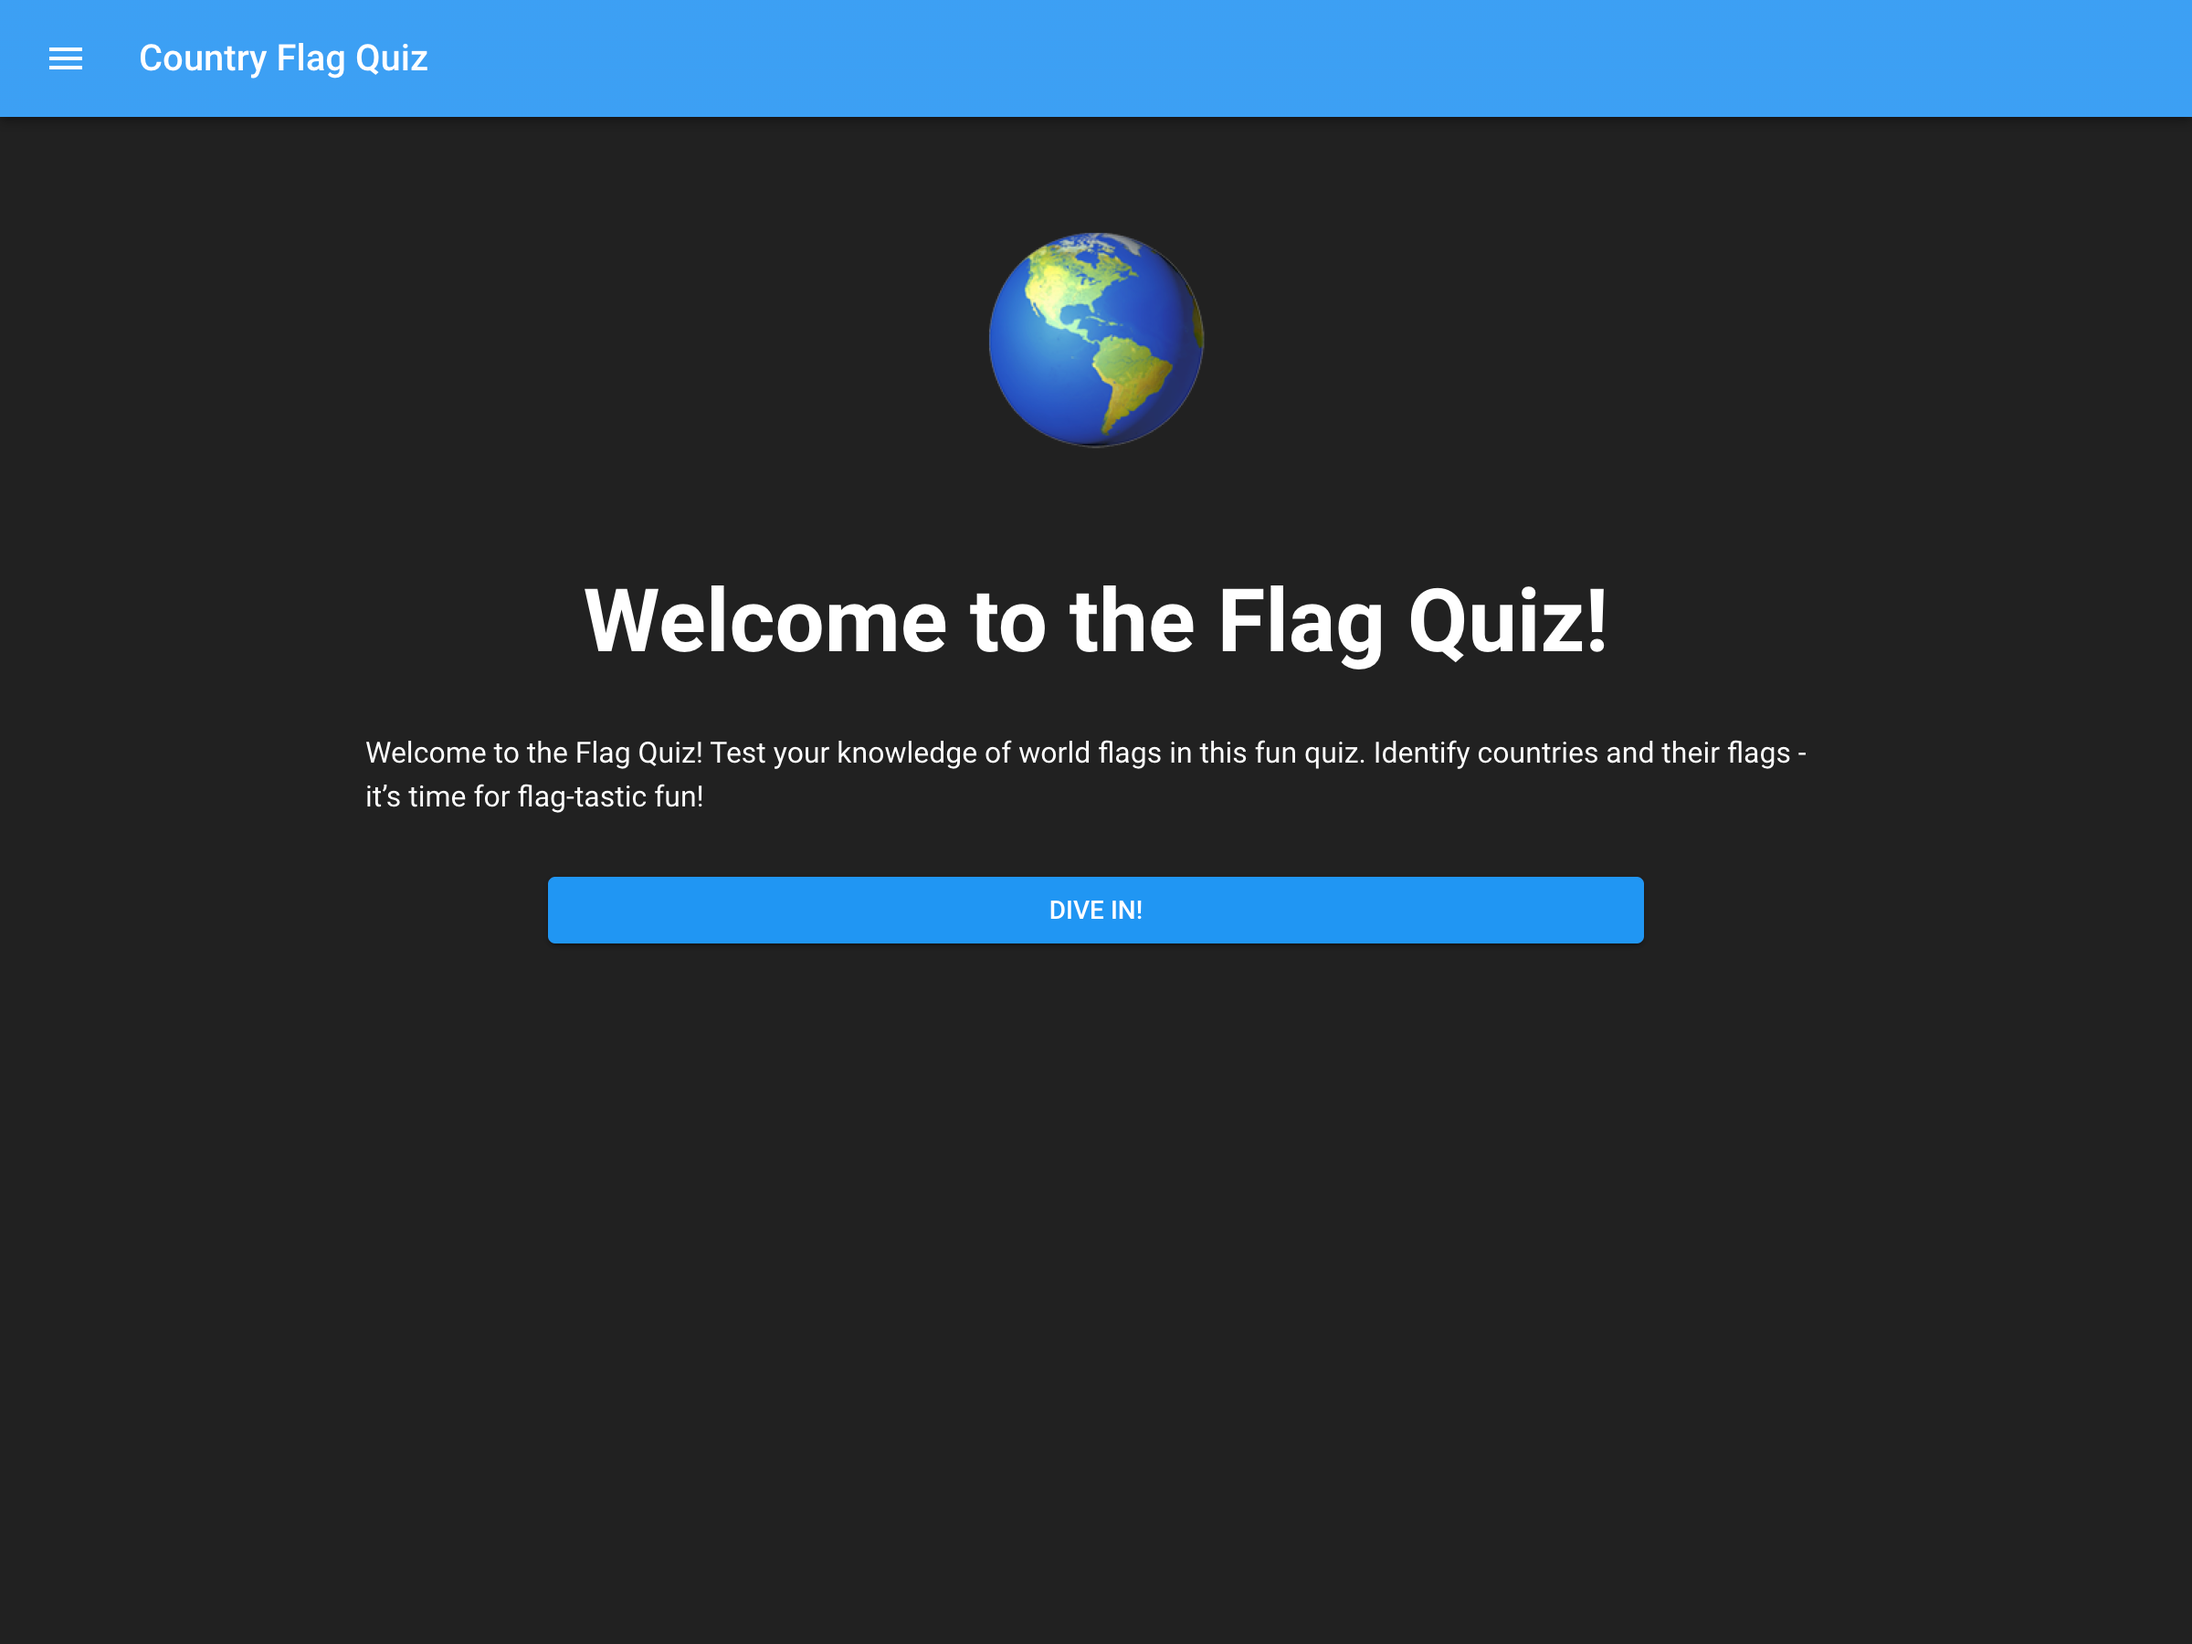
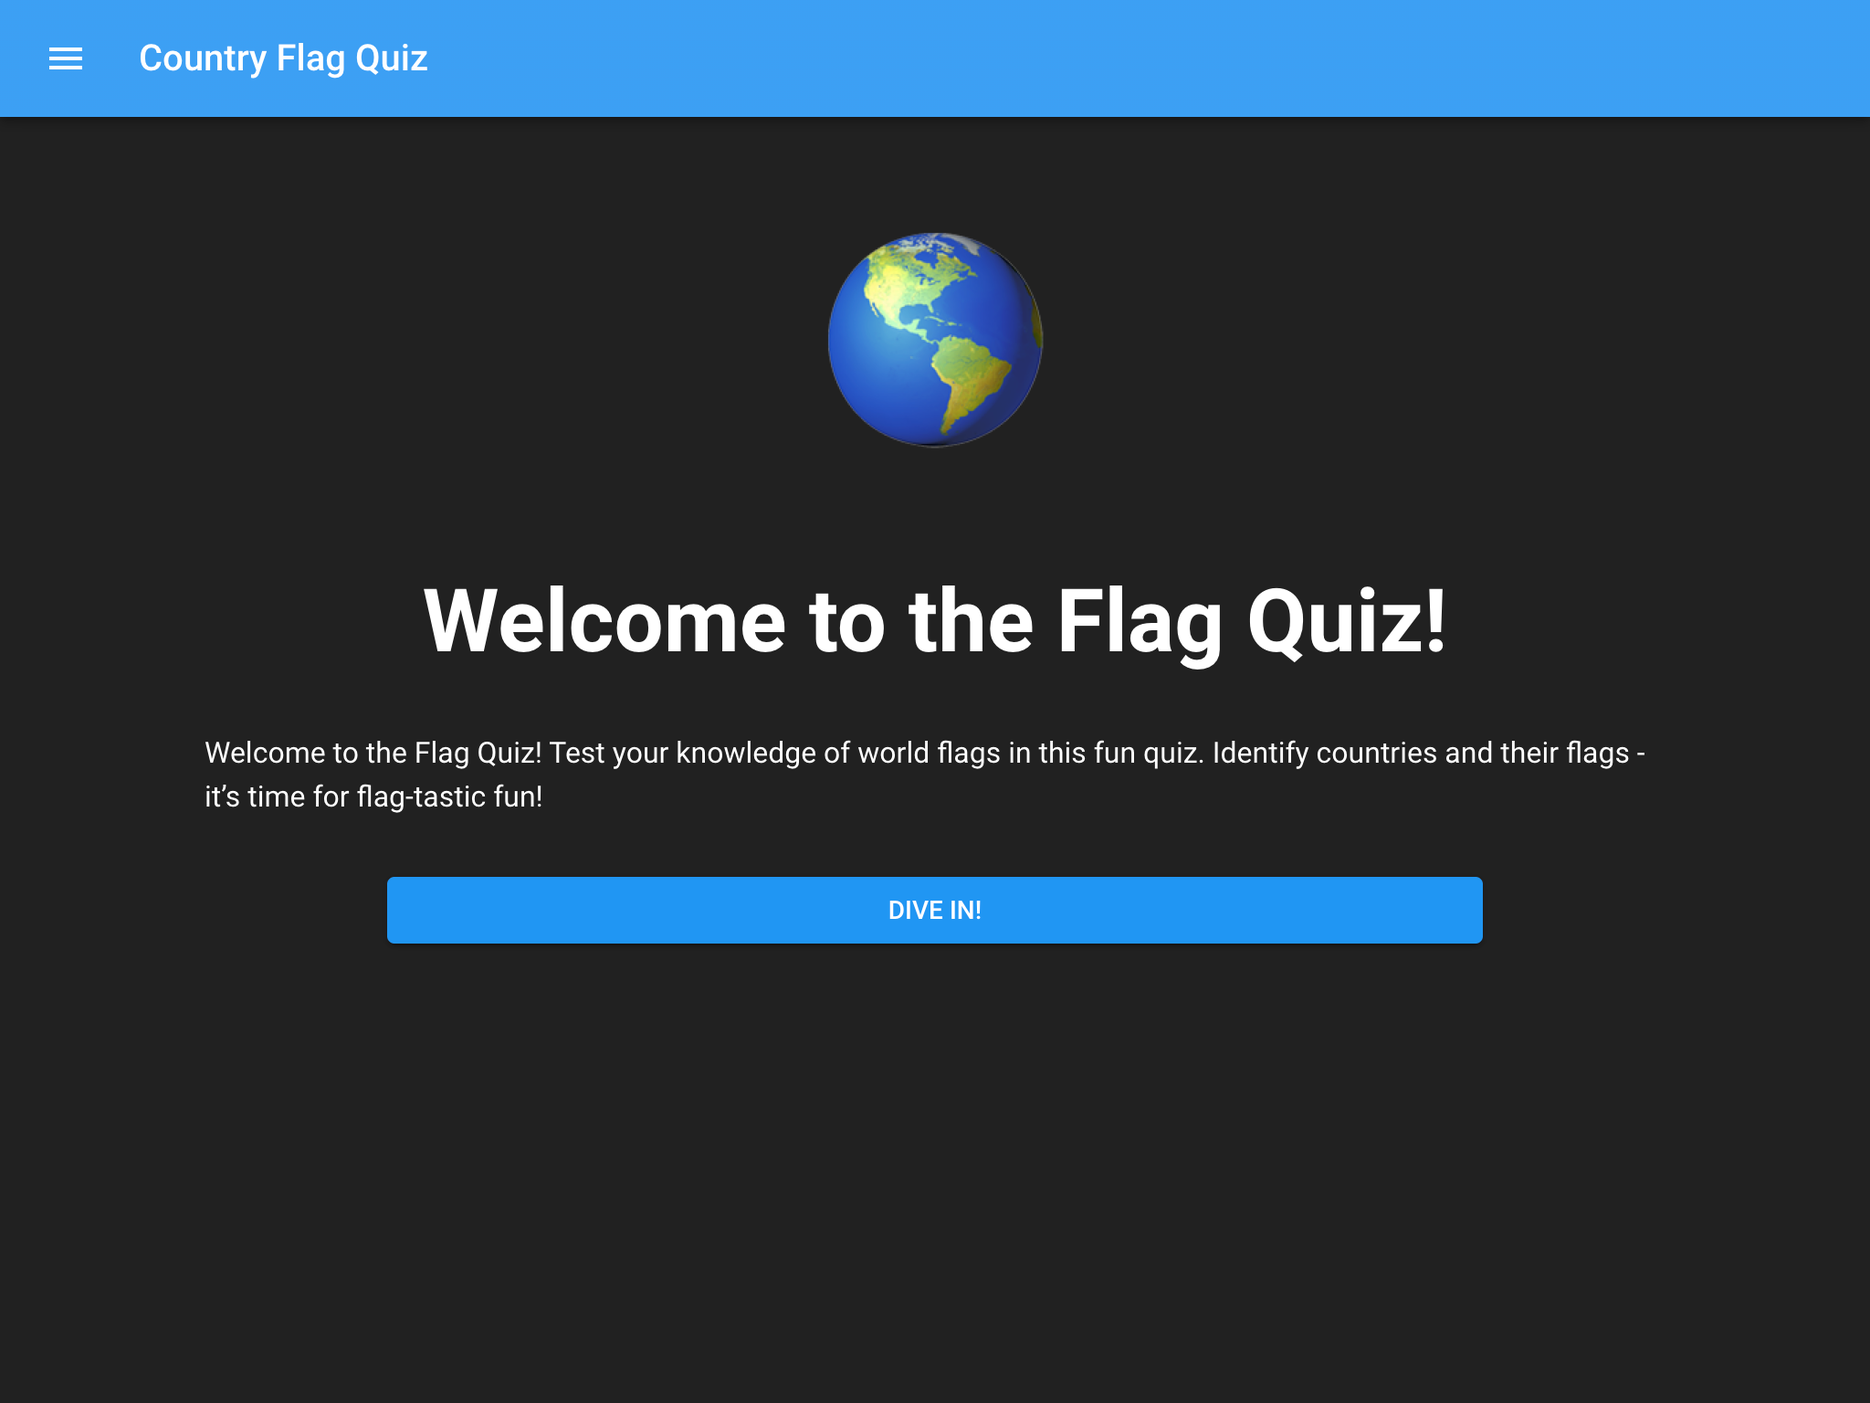
chore: screenshotを差し替え、preview URLを掲載

diff --git a/README.md b/README.md
@@ -11,6 +11,10 @@ Welcome to Country Flag Quiz, a web application built with Next.js that tests yo
 - **Flag Quiz:** Test your knowledge by identifying flags from different countries.
 - **Flag List:** Explore a comprehensive list of national flags for reference and learning purposes.
 
+## Preview
+
+- [https://main.d3oi4d7f6g0q3z.amplifyapp.com/](https://main.d3oi4d7f6g0q3z.amplifyapp.com/)
+
 ## Getting Started
 
 ### Prerequisites
